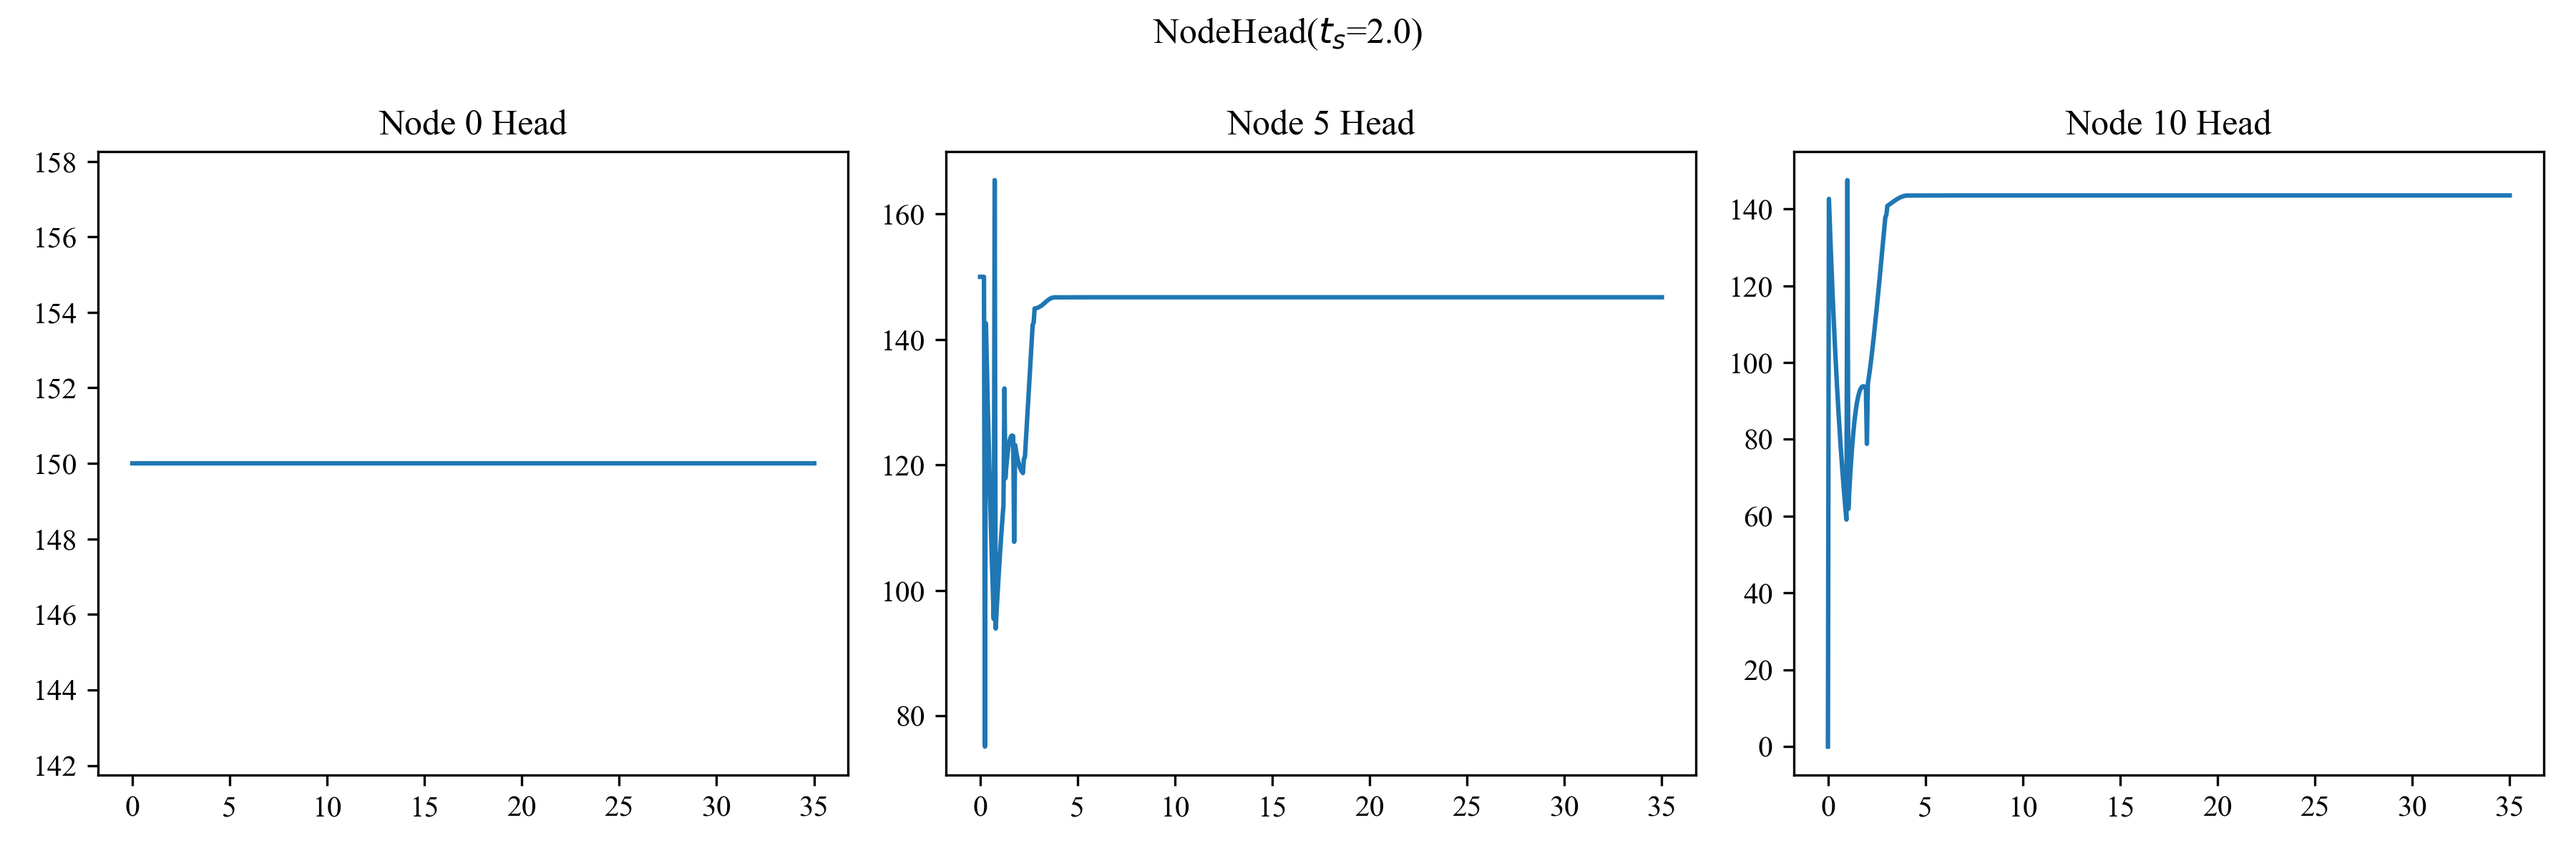
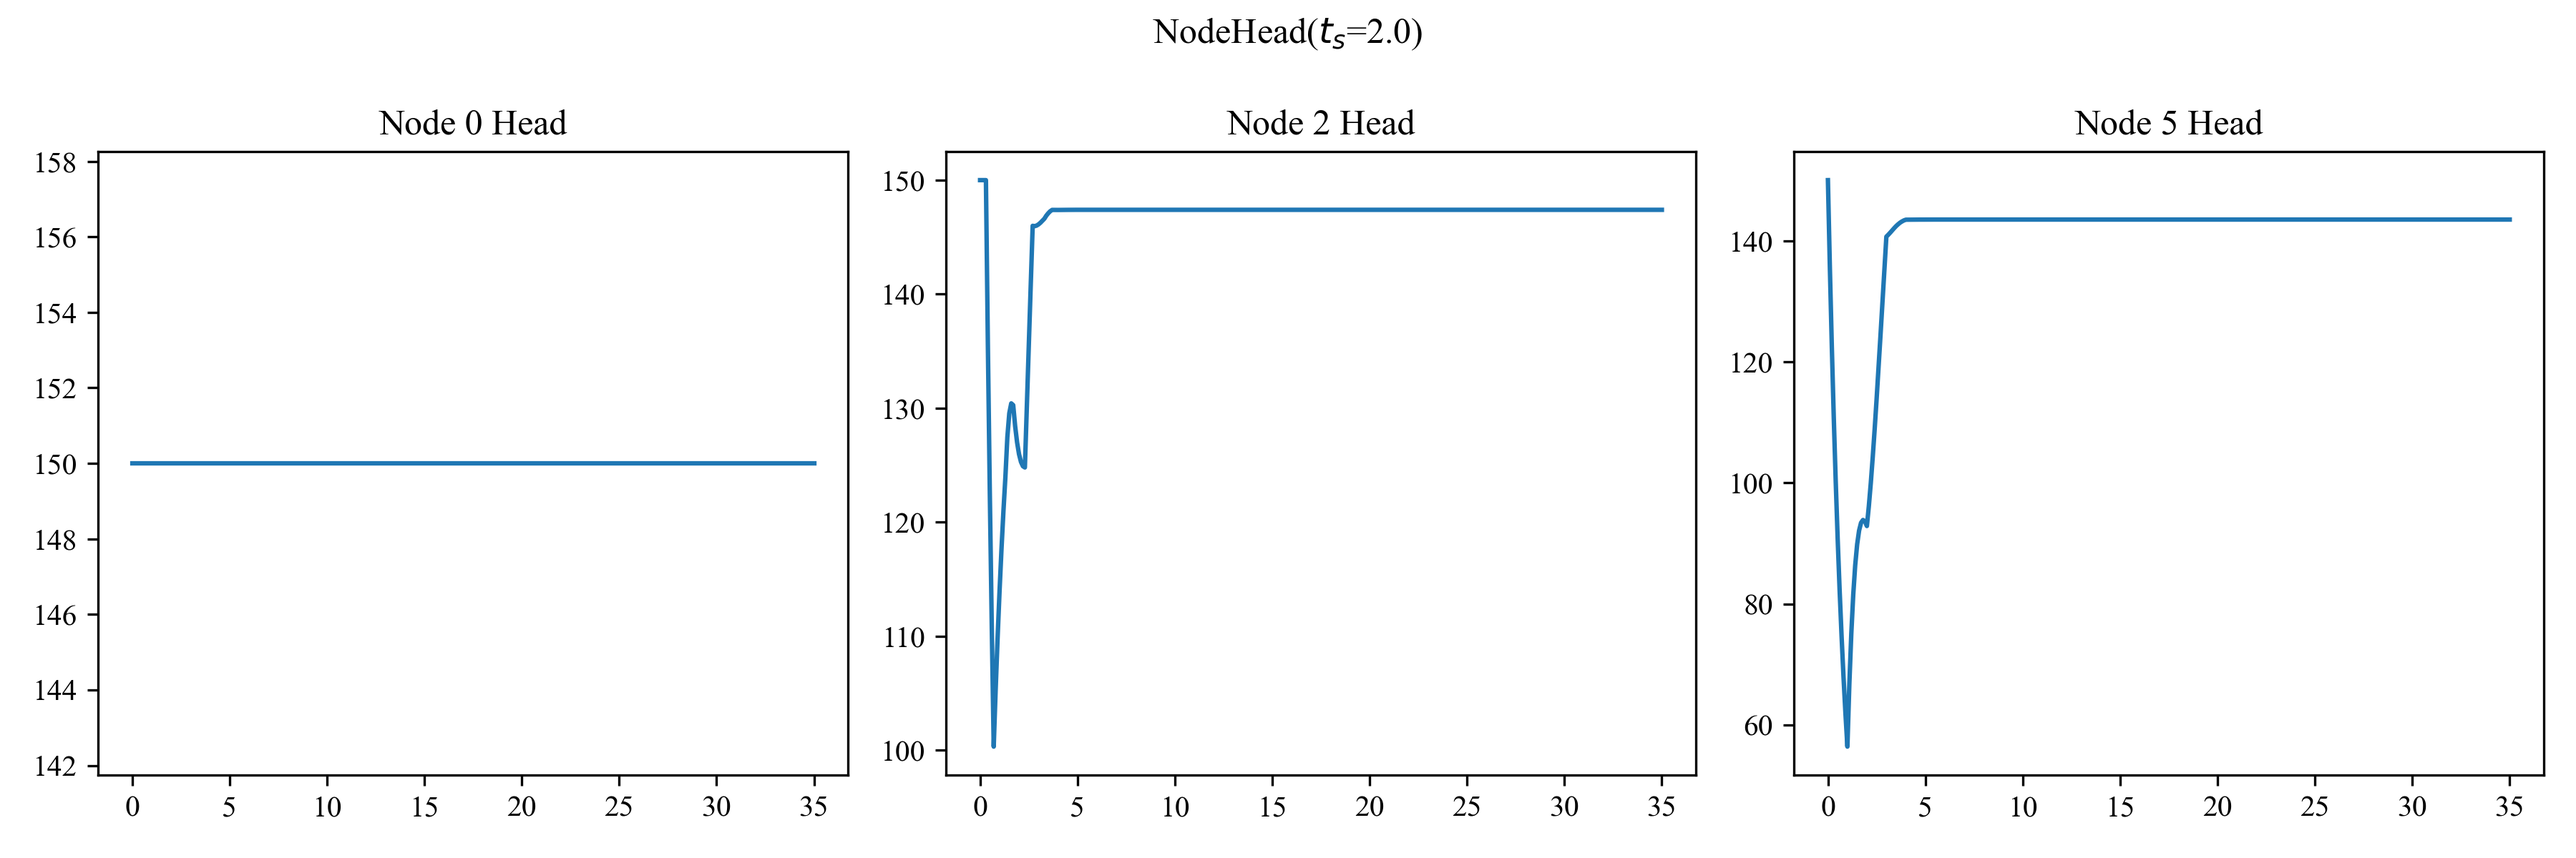
renew

diff --git a/自主研究探索课程（1）/作业/Question4/test.py b/自主研究探索课程（1）/作业/Question4/test.py
@@ -11,7 +11,7 @@ k = 0.009
 g = 9.806
 t_c = 4.0
 #阀门关闭时间
-t_s = 2.0
+t_s = 8.0
 #阀门开启时间
 E_m = 1
 Q_0 = k*np.sqrt(2*g*H_R)
@@ -24,7 +24,8 @@ N = 10
 init = np.zeros(N+1)
 Q = np.array([init])
 H = np.array([init])+H_R
-# H[0,N] = 0
+# for i in range(N+1):
+#     H[0,i] = H_R-H_R/(N)*i
 
 # 迭代计算
 dx = L/N
@@ -38,13 +39,13 @@ R = f*dx/(2*g*D*A**2)
 for i in range(1,N_t+1):
     t =  i*dt
     if t<t_s:
-        tau = 0
-        # tau = t/t_s
+        # tau = 0
+        tau = t/t_s
         # tau = np.power(1-t/t_c,E_m)
         # tau = 1
     else:
-        # tau = 1
-        tau = 0
+        tau = 1
+        # tau = 0
     Q = np.append(Q,[init],axis=0)
     H = np.append(H,[init],axis=0)
     for j in range(N+1):

diff --git a/自主研究探索课程（1）/作业/Question3/Question3.py b/自主研究探索课程（1）/作业/Question3/Question3.py
@@ -10,7 +10,7 @@ f = 0.018
 k = 0.009
 # 即C_dA_g
 g = 9.806
-t_c = 4
+t_c = 16.0
 #修改t_c即可得到不同t_c下的结果
 E_m = 1
 Q_0 = k*np.sqrt(2*g*H_R)
@@ -23,7 +23,7 @@ N = 10
 init = np.zeros(N+1)
 Q = np.array([init])
 H = np.array([init])+H_R
-H[0,N] = 0
+# H[0,N] = 0
 
 # 迭代计算
 dx = L/N

diff --git a/自主研究探索课程（1）/作业/Question4/Question4.py b/自主研究探索课程（1）/作业/Question4/Question4.py
@@ -11,7 +11,7 @@ k = 0.009
 g = 9.806
 t_c = 4.0
 #阀门关闭时间
-t_s = 8.0
+t_s = 16.0
 #阀门开启时间
 E_m = 1
 Q_0 = k*np.sqrt(2*g*H_R)
@@ -24,7 +24,7 @@ N = 5
 init = np.zeros(N+1)
 Q = np.array([init])
 H = np.array([init])+H_R
-H[0,N] = 0
+# H[0,N] = 0
 
 # 迭代计算
 dx = L/N

diff --git a/自主研究探索课程（1）/作业/Question2/Question2.py b/自主研究探索课程（1）/作业/Question2/Question2.py
@@ -21,7 +21,7 @@ N = 20
 init = np.zeros(N+1)
 Q = np.array([init])
 H = np.array([init])+H_R
-H[0,N] = 0
+# H[0,N] = 0
 
 # 迭代计算
 dx = L/N
